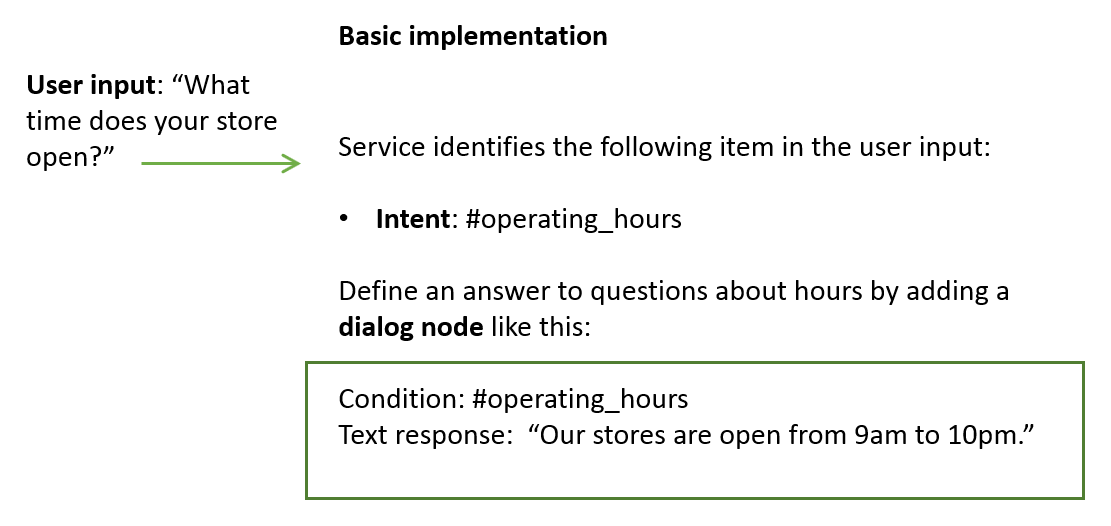
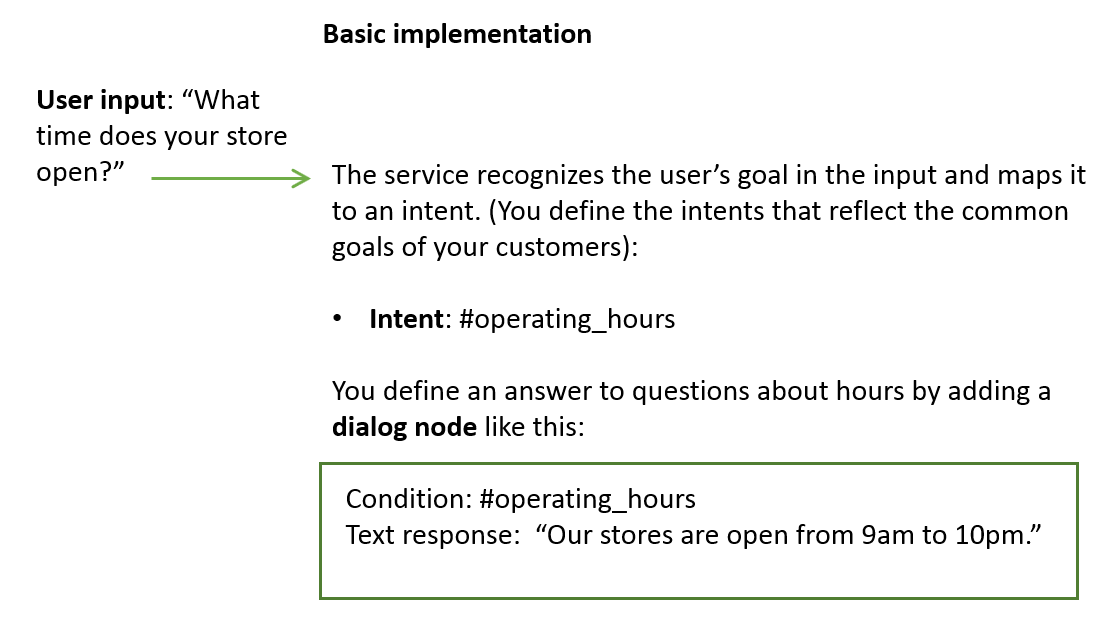
Updating diagrams and adding prem resource group note

diff --git a/skills.md b/skills.md
@@ -33,14 +33,17 @@ A dialog skill contains the following types of artifacts:
   A *content catalog* is provided that contains prebuilt common intents you can add to your application rather than building your own. For example, most applications require a greeting intent that starts a dialog with the user. You can add the **General** content catalog to add an intent that greets the user and does other useful things, like end the conversation.
 
 - [**Dialog**](/docs/services/assistant/dialog-build.html): A *dialog* is a branching conversation flow that defines how your application responds when it recognizes the defined intents and entities. You use the dialog builder in the tool to create conversations with users, providing responses based on the intents and entities that you recognize in their input.
-- [**Entities**](/docs/services/assistant/entities.html); An *entity* represents a term or object that is relevant to your intents and that provides a specific context for an intent. For example, an entity might represent a city where the user wants to find a business location, or the amount of a bill payment. In the tool, the name of an entity is always prefixed with the `@` character. To train the dialog skill to recognize your entities, you list the possible values for each entity and synonyms that users might enter.
+
+  ![Diagram of a basic implementation that uses intent and dialog only.](images/basic-impl.png)
+
+To enable your dialog skill to handle more nuanced questions, define entities and reference them from your dialog.
+
+- [**Entities**](/docs/services/assistant/entities.html); An *entity* represents a term or object that is relevant to your intents and that provides a specific context for an intent. For example, an entity might represent a city where the user wants to find a business location, or the amount of a bill payment. In the tool, the name of an entity is always prefixed with the `@` character.
+
+  You can train the skill to recognize your entities by providing entity term values and synonyms, entity patterns, or by identifying the context in which an entity is typically used in a sentence. To fine tune your dialog, go back and add nodes that check for entity mentions in user input in addition to intents.
+
+![Diagram of a more complex implementation that uses intent, entity, and dialog.](images/complex-impl.png)
 
 As you add information, the skill uses this unique data to build a machine learning model that can recognize these and similar user inputs. Each time you add or change the training data, the training process is triggered to ensure that the underlying model stays up-to-date as your customer needs and the topics they want to discuss change.
 
 For help creating a dialog skill, see [Creating a skill](/docs/services/assistant/skill-add.html).
-
-Here are some examples.
-
-![Diagram of a basic implementation that uses intent and dialog only.](images/basic-impl.png)
-
-![Diagram of a more complex implementation that uses intent, entity, and dialog.](images/complex-impl.png)

diff --git a/skill-add.md b/skill-add.md
@@ -2,7 +2,7 @@
 
 copyright:
   years: 2015, 2019
-lastupdated: "2019-02-12"
+lastupdated: "2019-02-14"
 
 ---
 
@@ -43,6 +43,8 @@ You can create a skill from scratch, use a sample skill that is provided by IBM,
 
         You can use one service instance to develop, test, and deploy an assistant, so do not create distinct resource groups for different types of deployment environments.
         {:tip}
+
+        With a Premium plan, you can create multiple instances. The instances must all be created in the same resource group.
 
     1.  Click **Create**.
 
